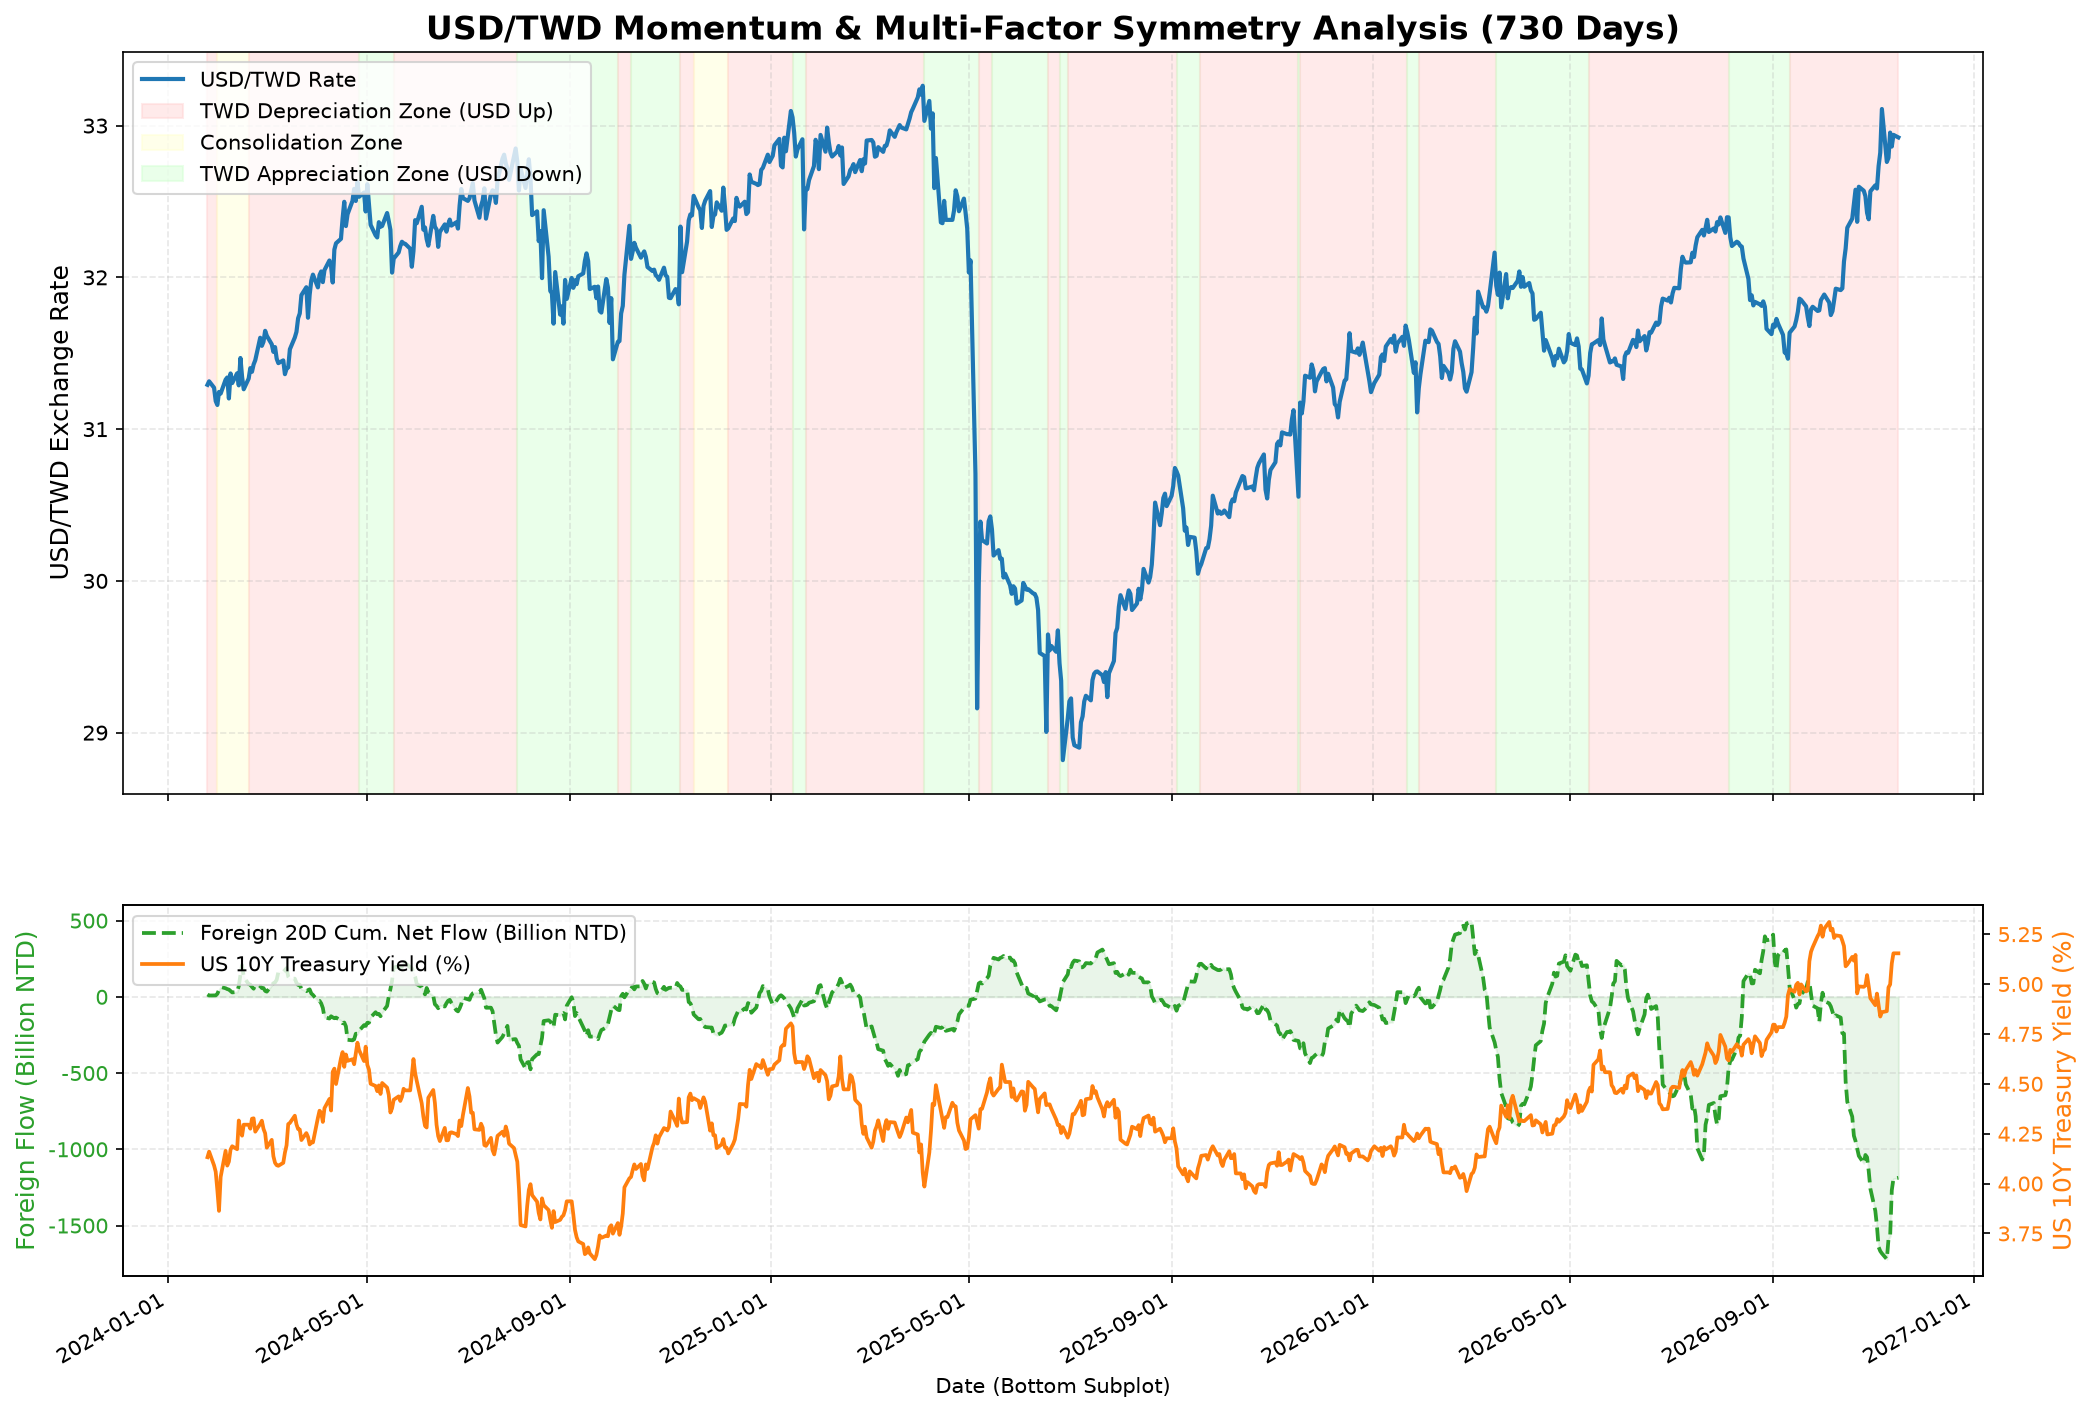
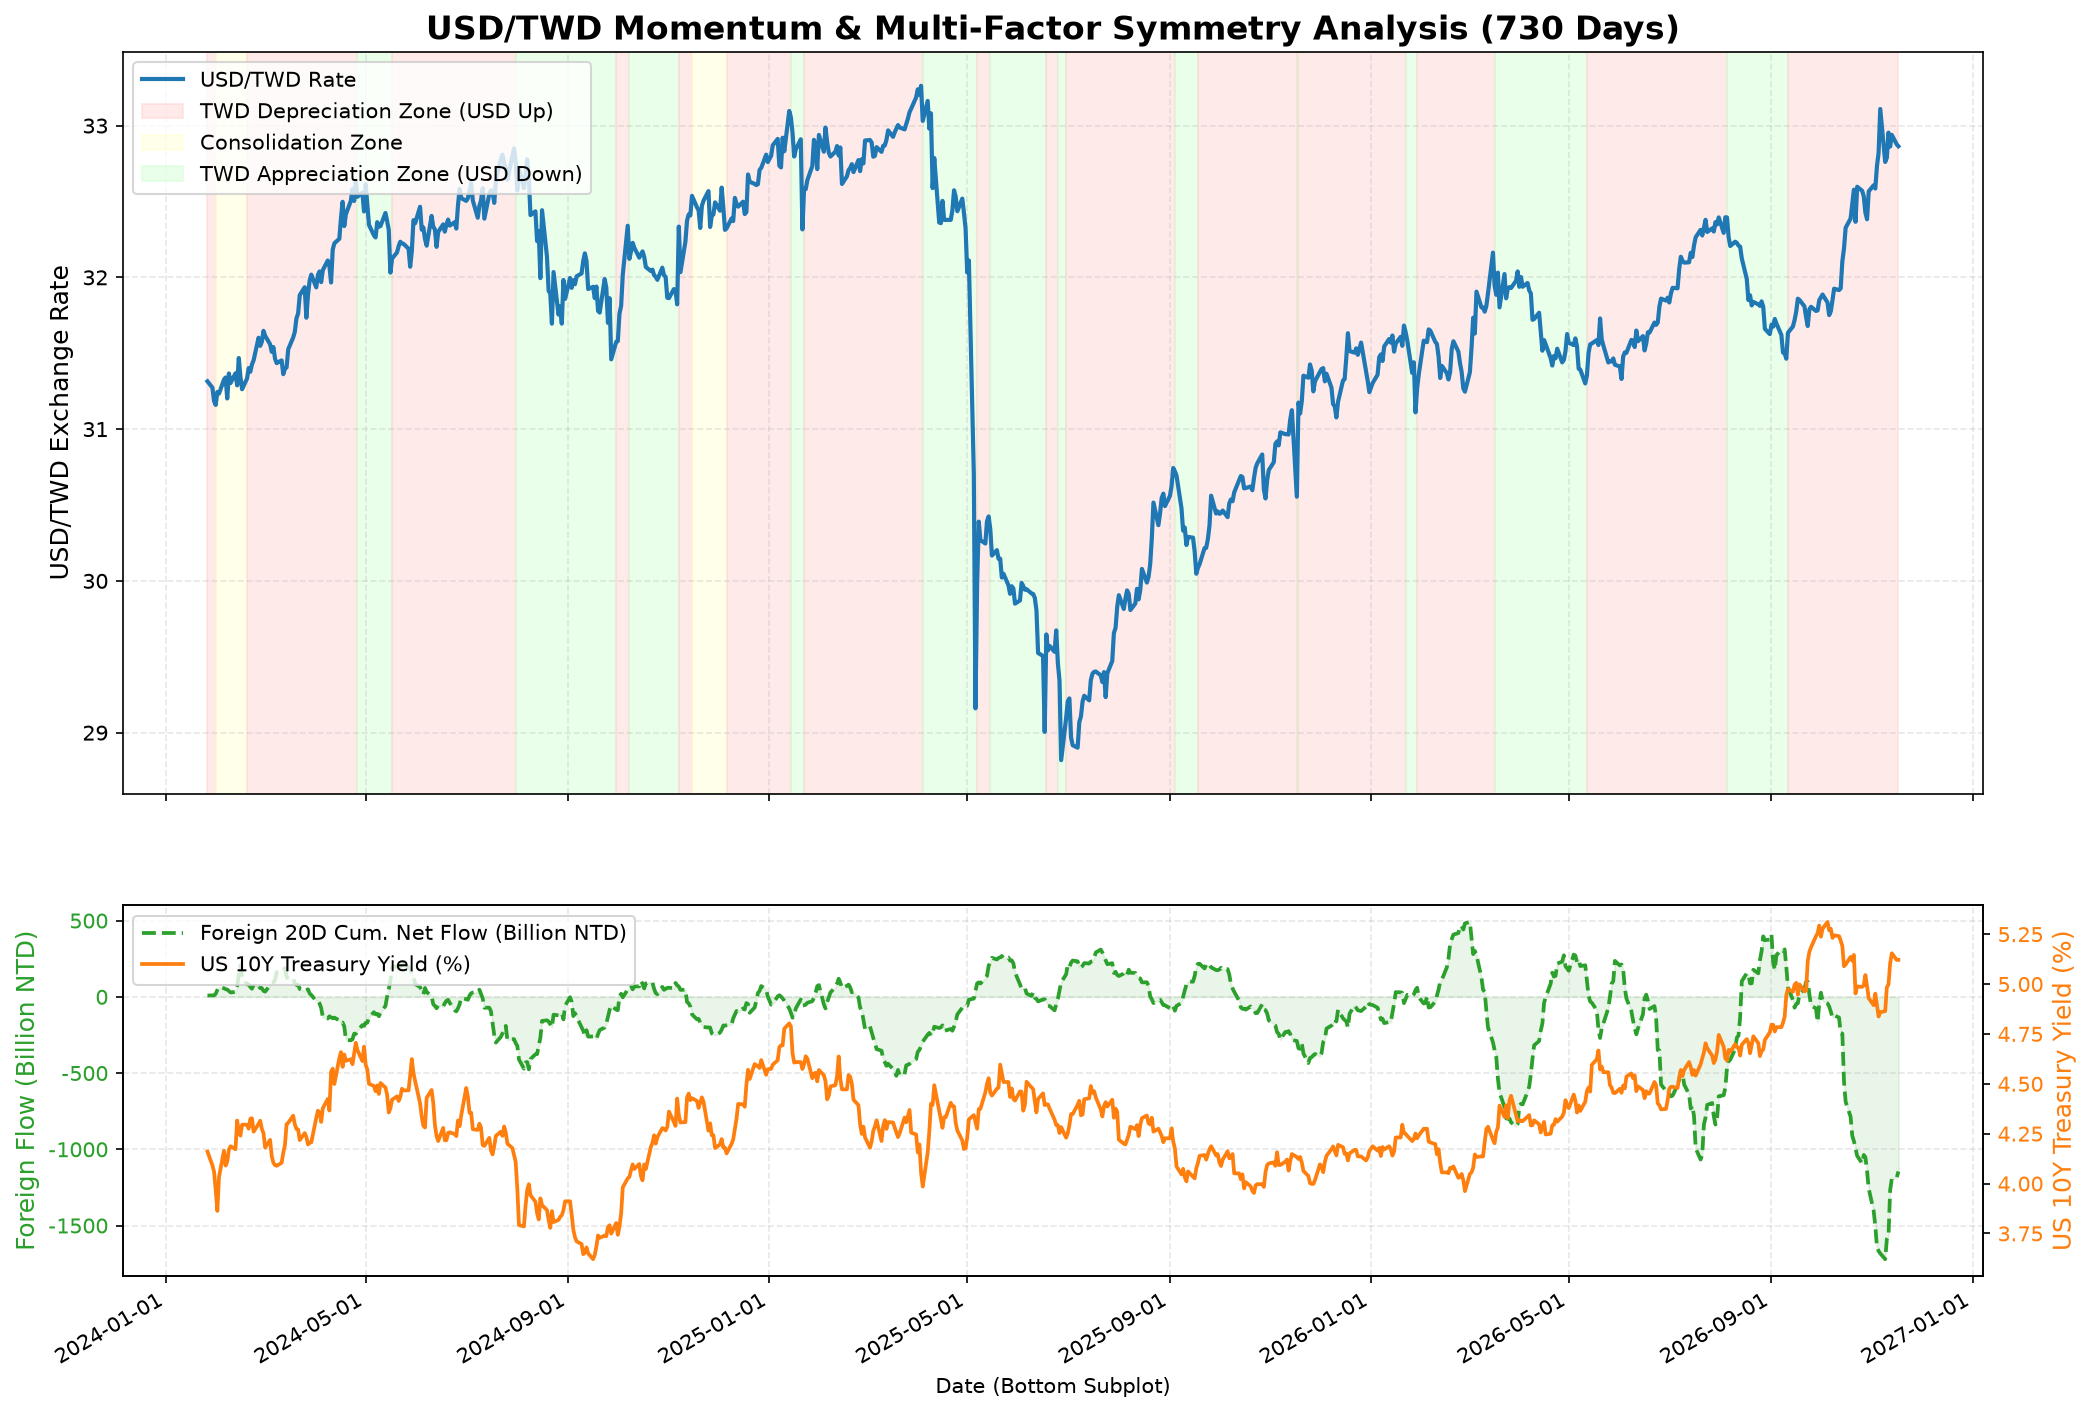
Auto-update USD/TWD momentum report (2026-11-17)

diff --git a/usdtwd.html b/usdtwd.html
@@ -57,7 +57,7 @@
                     <i class="fa-solid fa-money-bill-transfer text-amber-500"></i> USD/TWD 美元兌新台幣動能與多維度對稱分析報告
                 </h1>
                 <p class="text-sm text-gray-400 mt-1">
-                    標的：USD/TWD 匯率 ｜ 模型：雙速量價效率與波動對稱模型 ｜ 更新日期：2026-11-16
+                    標的：USD/TWD 匯率 ｜ 模型：雙速量價效率與波動對稱模型 ｜ 更新日期：2026-11-17
                 </p>
             </div>
             <div class="flex items-center gap-3">
@@ -116,22 +116,22 @@
 ════════════════════════════════════════════════════════════════════════════════
 
 【1. 跨市場與籌碼因子即時監控】
-  * 外資近 5 日累積淨買賣超: -76.92 十億元新台幣
-  * 外資近 20 日累積淨買賣超: -1186.76 十億元新台幣
-  * 美元指數 DXY: 103.53 (近5日變動: +1.30)
-  * 美元兌韓元 KRW: 1334.75 (近5日變動: -9.09)
-  * 美國 10 年期公債殖利率: 5.154% (近5日變動: +0.171%)
+  * 外資近 5 日累積淨買賣超: -80.90 十億元新台幣
+  * 外資近 20 日累積淨買賣超: -1145.32 十億元新台幣
+  * 美元指數 DXY: 103.57 (近5日變動: +0.66)
+  * 美元兌韓元 KRW: 1335.78 (近5日變動: -6.13)
+  * 美國 10 年期公債殖利率: 5.121% (近5日變動: +0.123%)
 --------------------------------------------------------------------------------
 【2. 歷史波段對稱統計 (台幣貶值波段 (美元兌台幣上漲))】
-  * 歷史波段數: 36 次
-  * 平均波動幅度: 2.99% (中位數: 2.39%)
-  * 平均持續天數: 36.0 天
-  * 平均波段外資流入: -239.92 十億元
+  * 歷史波段數: 35 次
+  * 平均波動幅度: 3.01% (中位數: 2.39%)
+  * 平均持續天數: 36.1 天
+  * 平均波段外資流入: -247.87 十億元
 --------------------------------------------------------------------------------
 【2. 歷史波段對稱統計 (台幣升值波段 (美元兌台幣下跌))】
   * 歷史波段數: 29 次
-  * 平均波動幅度: 3.51% (中位數: 2.23%)
-  * 平均持續天數: 38.9 天
+  * 平均波動幅度: 3.53% (中位數: 2.23%)
+  * 平均持續天數: 39.4 天
   * 平均波段外資流入: +58.25 十億元
 --------------------------------------------------------------------------------
 【3. 當前 USD/TWD 波段評估與等幅對稱投影】
@@ -139,19 +139,19 @@
   * 波段起始日期: 2026-09-11 (起始匯率: 31.635)
   * 波段最高點 (Peak): 33.109
   * 波段最低點 (Trough): 31.635
-  * 當前最新匯率 (2026-11-16): 32.922
+  * 當前最新匯率 (2026-11-17): 32.864
   * 本波段累計變動: 4.66% (共 +1.474 元)
-  * 目前已持續交易日: 46 天
-  * 本波段外資累積淨流入: -2059.93 十億元
+  * 目前已持續交易日: 47 天
+  * 本波段外資累積淨流入: -2098.02 十億元
 
   [短線動能預警 (0.6% 領先燈號)]
   * 短線波段狀態: 台幣短線轉強 (匯率自高點回落)
   * 短線轉折基準: 2026-11-06 (匯率基準價 33.109)
-  * 短線累計幅度: -0.57% (6 天)
+  * 短線累計幅度: -0.74% (7 天)
 
   &gt;&gt;&gt; 【台幣貶值波段對稱投影預估 (以波段最低點計算)】 &lt;&lt;&lt;
   * 投影基準點 (本波段最低谷): 31.635
-  1. 溫和型貶值滿足點 (歷史平均 +2.99%): 【32.580】 (已超越)
+  1. 溫和型貶值滿足點 (歷史平均 +3.01%): 【32.587】 (已超越)
   2. 標準型貶值滿足點 (歷史中位數 +2.39%): 【32.391】 (已超越)
 
   💡 操作與避險決策建議：
